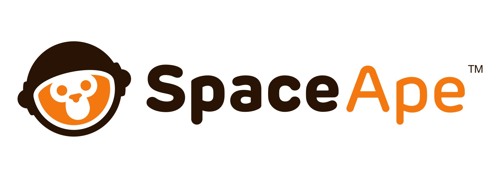
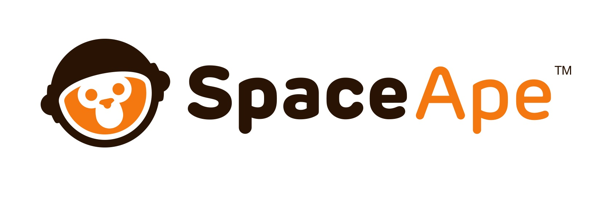
Updated homepage

Changed region(s): [[0.03, 0.1852, 0.93, 0.7407], [0.9, 0.3175, 0.99, 0.3968], [0.48, 0.582, 0.51, 0.6085]]

diff --git a/index.html b/index.html
@@ -1,7 +1,7 @@
 ---
 layout: page
 group: homepage
-title: Snowplow – Your digital nervous system
+title: Snowplow – The Event Analytics Platform
 permalink: index.html
 ---
 
@@ -9,26 +9,25 @@ permalink: index.html
 
 <div class="homepage">
 
-  <!-- big introduction -->
+  <!-- big box -->
 
   <div class="row">
-    <div class="snowplow-jumbotron">
+    <div class="bigbox">
       <h1>Snowplow, the event analytics platform.</h1>
       <p>Have <em>every single event</em>, from your websites, mobile apps, desktop applications and server-side systems, stored in <em>your own data warehouse</em> and available to action in <em>real-time</em>.</p>
       <p>Your very own digital nervous system.</p>
-      <a href="/product/index.html"><button class="btn btn-lg btn-primary" type="button">Learn more</button></a>
-      <a href="/get-started/index.html"><button class="btn btn-lg btn-primary text-center" type="button">Get started</button></a>
+      <a href="/product" class="cta">Learn more about Snowplow</a><br>
+      <a href="/get-started" class="cta">Sign up for a free trial</a>
     </div>
   </div>
 
   <!-- what is snowplow -->
 
+  <div class="row"><h2 class="separator">&#9741;</h2></div>
+
+  <div class="row"><h2>Snowplow is the best data warehousing platform for web and mobile events.</h2></div>
+
   <div class="row">
-    <div class="row">
-        <h2 class="separator">&#9741;</h2>
-        <h2>Snowplow is the best data warehousing platform for web and mobile events.</h2>
-    </div>
-    <div class="row">
       <div class="col-md-6">
         <h3>Your <a href="/product/the-best-event-data-warehouse.html#your-own-datawarehouse">own data warehouse</a> in your <a href="/product/the-best-event-data-warehouse.html#your-own-datawarehouse">own AWS account.</a></h3>
         <img src="/assets/img/product/own-datawarehouse.png" class="center-block">
@@ -37,8 +36,8 @@ permalink: index.html
         <h3><a href="/product/the-best-event-data-warehouse.html#rich-and-flexible-data-schemas">Rich <em>and</em> flexible</a> data schemas.</h3>
         <img src="/assets/img/product/rich-and-flexible-data-schemas.png" class="center-block">
       </div>
-    </div>
-    <div class="row">
+  </div>
+  <div class="row">
       <div class="col-md-6">
         <h3>Your data delivered to you <a href="/product/the-best-event-data-warehouse.html#fast"><em>fast</em>.</a></h3>
         <img src="/assets/img/product/fast.png" class="center-block">
@@ -46,53 +45,51 @@ permalink: index.html
       <div class="col-md-6">
         <h3><a href="/product/the-best-event-data-warehouse.html#easy">Easy</a> - we setup and run your analytics stack for you.</h3>
         <img src="/assets/img/product/easy.png" class="center-block">
-    </div>
+      </div>
   </div>
 
   <!-- who uses snowplow -->
 
-  <div class="row">
-    <h2 class="separator">&#9741;</h2>
-    <h2>Snowplow is used by some of the most data-sophisticated organizations in the world.</a></h2>
-  </div>
+  <div class="row"><h2 class="separator">&#9741;</h2></div>
+
+  <div class="row"><h2>Snowplow is used by some of the most data-sophisticated organizations in the world.</a></h2></div>
 
   <div class="row">
-    <div class="logo-container">
-      <div class="logo"><img src='/assets/img/landingpage/spaceape-resized-bw.png' width='250px' onmouseover="this.src='/assets/img/landingpage/spaceape-resized-color.png';" onmouseout="this.src='/assets/img/landingpage/spaceape-resized-bw.png';" /></div>
-      <div class="logo"><img src='/assets/img/landingpage/theguardian-resized-bw.png' width='400px' onmouseover="this.src='/assets/img/landingpage/theguardian-resized-color.png';" onmouseout="this.src='/assets/img/landingpage/theguardian-resized-bw.png';" /></div>
-      <div class="logo"><img src='/assets/img/landingpage/99designs-resized-bw.png' width='250px' onmouseover="this.src='/assets/img/landingpage/99designs-resized-color.png';" onmouseout="this.src='/assets/img/landingpage/99designs-resized-bw.png';" /></div>
+    <div class="users-logobox">
+      <div class="logo"><a href="http://www.spaceapegames.com/"><img src='/assets/img/landingpage/spaceape-resized-bw.png' onmouseover="this.src='/assets/img/landingpage/spaceape-resized-color.png';" onmouseout="this.src='/assets/img/landingpage/spaceape-resized-bw.png';" /></a></div>
+      <div class="logo"><a href="http://www.theguardian.com/"><img src='/assets/img/landingpage/theguardian-resized-bw.png' onmouseover="this.src='/assets/img/landingpage/theguardian-resized-color.png';" onmouseout="this.src='/assets/img/landingpage/theguardian-resized-bw.png';" /></a></div>
+      <div class="logo"><a href="http://www.oyster.com/"><img src='/assets/img/landingpage/oyster-resized-bw.png' onmouseover="this.src='/assets/img/landingpage/oyster-resized-color.png';" onmouseout="this.src='/assets/img/landingpage/oyster-resized-bw.png';" /></a></div>
+    </div>
+  </div>
+
+  <div class="row" style="text-align:center"><a href="/product/who-uses-snowplow.html" class="cta">More companies</a></div>
+
+  <div class="row">
+    <div class="users-mugshot"><img src="/assets/img/user-testimonials/eric-pantera.png" class="img-circle"></div>
+    <div class="users-oneliner">
+      <p><q>Snowplow has been a game-changer here at Viadeo, handling 10 million events per day. Today at Viadeo, every single engineer and product manager is able to setup a rich metrics dashboard in a few minutes.</q></p>
+      <p><cite>— Eric Pantera, VP of Engineering at <a href="http://viadeo.com/">Viadeo</a>.</cite></p>
     </div>
   </div>
 
   <div class="row">
-    <div class="cta">Learn more about Snowplow users &#10137;</div>
-  </div>
-
-  <div class="row">
-  <div class="col-lg-2 col-md-2">
-    <img src="/assets/img/user-testimonials/eric-pantera.png" class="img-circle" width="100" style="margin-left:auto;" />
-    </div>
-    <div class="col-lg-10 col-md-10">
-    <p><q>Snowplow has been a game-changer here at Viadeo, handling 10 million events per day. Today at Viadeo, every single engineer and product manager is able to setup a rich metrics dashboard in a few minutes.</q></p>
-    <p><small><cite>– Eric Pantera, VP of Engineering at <a href="http://viadeo.com/">Viadeo</a>.</cite></small></p>
-  </div>
-  </div>
-  <div class="row">
-  <div class="col-lg-2 col-md-2">
-    <img src="/assets/img/user-testimonials/simon-rumble.jpg" class="img-circle" width="100" style="margin-left:auto;" />
-  </div>
-  <div class="col-lg-10 col-md-10">
+    <div class="users-mugshot"><img src="/assets/img/user-testimonials/simon-rumble.jpg" class="img-circle"></div>
+    <div class="users-oneliner">
       <p><q>We use Snowplow at the heart of our data programme combining online behaviour and offline profile data. It drives the behavioural signals for our custom recommendations engine, trending and API and editorial reporting systems. Building these in any other platform would have been a pain, but with Snowplow, it’s just SQL.</q></p>
-      <p><small><cite>– Simon Rumble, Head of Data, Analytics and CRM at <a href="http://www.bauer-media.com.au/">Bauer Media Australia</a>.</cite></small></p>
+      <p><small><cite>— Simon Rumble, Head of Data, Analytics and CRM at <a href="http://www.bauer-media.com.au/">Bauer Media Australia</a>.</cite></small></p>
+    </div>
   </div>
-  </div>
+
+  <div class="row" style="text-align:center"><a href="/product/who-uses-snowplow.html" class="cta">Learn more from our users</a></div>
 
   <!-- call to action -->
 
-  <div class="row">
-    <h2 class="separator">&#9741;</h2>
-    <h2>Interested? Let’s get started.</h2>
-    <a href="/product/index.html"><button class="btn btn-lg btn-primary" type="button">Learn more</button></a>
-    <a href="/get-started/index.html"><button class="btn btn-lg btn-primary text-center" type="button">Get started</button></a>
+  <div class="row"><h2 class="separator">&#9741;</h2></div>
+
+  <div class="row"><h2>Interested? Let’s get started.</h2></div>
+  <div class="row" style="text-align:center">
+    <a href="/product" class="cta">Learn more about Snowplow</a><br>
+    <a href="/get-started" class="cta">Sign up for a free trial</a>
   </div>
+
 </div>

diff --git a/assets/themes/bootstrap-3/bootstrap/css/snowplow.css b/assets/themes/bootstrap-3/bootstrap/css/snowplow.css
@@ -70,15 +70,6 @@ footer {
 
 /* Homepage */
 
-.snowplow-jumbotron {
-  background-color: #D2D4DB;
-	border-radius: 5px;
-	text-align: center;
-	max-width: 100%;
-	padding: 60px;
-	margin: 0;
-}
-
 .homepage h1 {
 	font-size: 65px;
 	font-weight: 300;
@@ -88,55 +79,100 @@ footer {
 	font-size: 40px;
 	font-weight: 300;
 	text-align: center;
-	margin: 0px auto 30px auto;
+	margin: 0 auto; /* both text-align and margin are required */
 	width: 65%;
 }
 
 .homepage h2.separator {
-	margin: 60px auto;
+	margin: 30px auto;
 }
 
 .homepage p {
   font-size: 25px;
   font-weight: 300;
+}
+
+.homepage .row {margin-bottom: 30px;}
+
+.homepage .bigbox {
+	margin: 0;
+	padding: 60px;
+  background-color: #D2D4DB;
+	border-radius: 5px;
+	text-align: center;
+	max-width: 100%;
+}
+
+.homepage .bixbog p {
 	margin: 0 auto 30px auto;
 	width: 90%;
 }
 
+.homepage .users-logobox .logo {display: inline-block;}
+
+.homepage .users-logobox .logo img {height: 100px; }
+
+.homepage .users-mugshot {
+	padding: 15px 15px 0 15px;
+	float: left;
+	width: 15%;
+}
+
+.homepage .users-oneliner {
+	padding: 0 15px;
+	float: left;
+	width: 85%
+}
+
+.homepage .users-oneliner cite {
+	font-size: 18px;
+	font-weight: 400;
+	padding-left: 30px;
+}
+
+
+
+
+
 @media (max-width: 1199px) {
-	.snowplow-jumbotron {padding: 45px;}
+	.bixbog {padding: 45px;}
 	.homepage h1 {font-size: 50px;}
 	.homepage p {font-size: 20px;}
 }
 @media (max-width: 991px) {
-	.snowplow-jumbotron {padding: 30px;}
+	.bigbox {padding: 30px;}
 	.homepage h1 {font-size: 45px;}
 	.homepage p {font-size: 18px;}
 }
 @media (max-width: 767px) {
-	.snowplow-jumbotron {padding: 30px;}
+	.bigbox {padding: 30px;}
 	.homepage h1 {font-size: 45px;}
 	.homepage p {font-size: 18px;}
 }
 
-.homepage .logo-container {
+.homepage .users-logobox {
 	text-align: center;
-	margin-bottom: 30px;
 	width: 100%;
 }
 
-.homepage .logo-container .logo {display: inline-block;}
 
-.homepage .cta {
-	margin-bottom: 30px;
+
+a.cta {
 	text-transform: uppercase;
 	text-align: center;
 }
 
-.homepage cite {
-	font-size: 18px;
-	padding-left: 30px;
+a.cta:after {
+	content: " ➙";
 }
+
+
+
+
+
+
+
+
 
 /* Headers */
 
